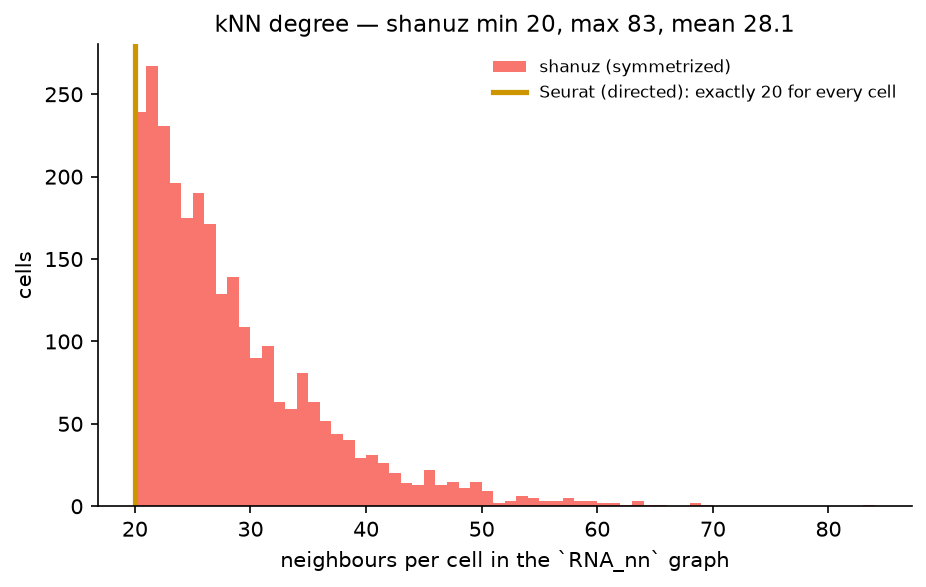
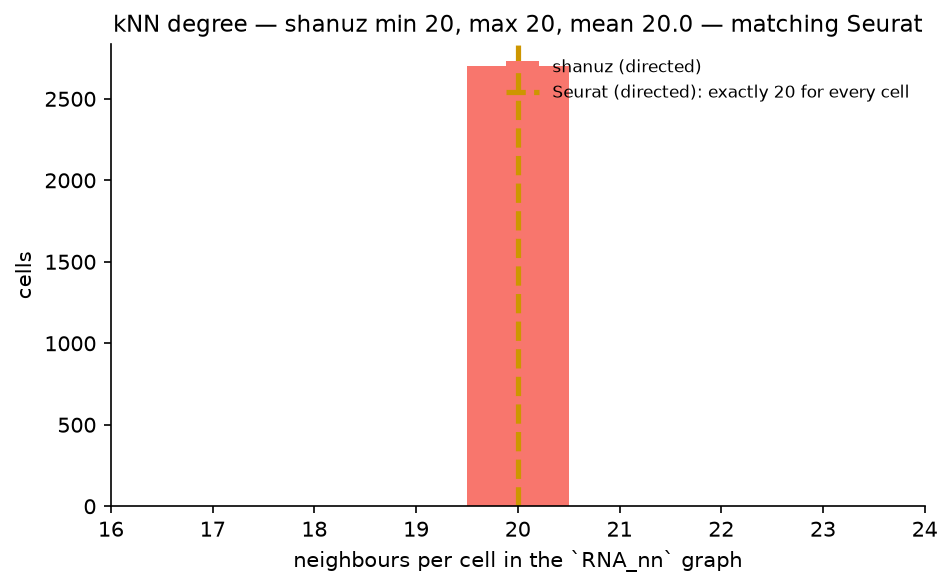
fix(tutorials): compare the object model against exact neighbours
`pbmc3k_objects_verify.R` called `FindNeighbors` with Seurat's default
`nn.method = "annoy"`, which is approximate, while shanuz's neighbour search
is exact. The two sides were therefore building their graphs from different
neighbour tables, and the `graphs` anchors reported a difference that belongs
to annoy rather than to either object model — 182 SNN edges on pbmc3k, 199,434
against the exact 199,616.

Pinning `nn.method = "rann"` makes both sides exact and the tutorial now
matches 91 of 91 anchors, up from 90. Confirmed two ways: Seurat under `rann`
returns 199,616 directly, and feeding Seurat's own `rann` indices into
`_build_snn` reproduces both the edge count and the weight sum.

Also refreshes the docs, which still described two neighbour-graph defects
that PR #55 fixed: the symmetrised kNN graph (now exactly 54,000 entries,
matching Seurat) and the dropped SNN self-edge (now present on all 2,700
cells). The "Two differences left standing" section, the 89/91 headline, the
tutorials index row, the ROADMAP entry and the kNN-degree figure all carried
the pre-#55 state.

The package itself is untouched — this is the comparison apparatus and its
write-up.

diff --git a/tutorials/generate_objects_plots.py b/tutorials/generate_objects_plots.py
@@ -157,7 +157,9 @@ def concordance_by_section(anchors):
 def nn_degree(obj):
     """Neighbours per cell, against the flat k Seurat's directed graph gives.
 
-    The finding this tutorial reports but does not fix.
+    Once the kNN graph is stored directed (PR #55) this is a single bar sitting
+    on Seurat's line — which is the point. Before that fix shanuz symmetrized,
+    and the same plot ran from 20 to 83 with a mean of 28.1.
     """
     import matplotlib.pyplot as plt
 
@@ -167,15 +169,19 @@ def nn_degree(obj):
     degrees = np.diff(graph.tocsr().indptr)
 
     fig, ax = plt.subplots(figsize=(7, 4))
-    ax.hist(degrees, bins=range(int(degrees.min()), int(degrees.max()) + 2),
-            color=_PY_COLOR, label="shanuz (symmetrized)")
-    ax.axvline(20, color=_R_COLOR, lw=2.5,
+    lo, hi = int(degrees.min()), int(degrees.max())
+    # Bins centred on the integers, so a single-valued degree draws as one bar
+    # *at* 20 rather than a block spanning 20-21 that implies a spread.
+    ax.hist(degrees, bins=np.arange(lo - 0.5, hi + 1.5, 1.0),
+            color=_PY_COLOR, label="shanuz (directed)")
+    ax.axvline(20, color=_R_COLOR, lw=2.5, linestyle="--",
                label="Seurat (directed): exactly 20 for every cell")
+    ax.set_xlim(min(lo, 20) - 4, max(hi, 20) + 4)
     ax.set_xlabel("neighbours per cell in the `RNA_nn` graph")
     ax.set_ylabel("cells")
     ax.set_title(
         f"kNN degree — shanuz min {degrees.min()}, max {degrees.max()}, "
-        f"mean {degrees.mean():.1f}", fontsize=11)
+        f"mean {degrees.mean():.1f} — matching Seurat", fontsize=11)
     ax.legend(fontsize=8, frameon=False)
     ax.spines[["top", "right"]].set_visible(False)
     return fig

diff --git a/tests/test_objects_tutorial.py b/tests/test_objects_tutorial.py
@@ -274,3 +274,28 @@ def test_layer_anchor_describes_every_layer():
     assert set(got) == {"counts"}
     assert got["counts"]["shape"] == [4, 6]
     assert got["counts"]["cells"]["n"] == 6
+
+
+def test_r_reference_pins_exact_neighbours():
+    """The R side must not fall back to Seurat's approximate `annoy`.
+
+    `FindNeighbors` defaults to `nn.method = "annoy"`, which is approximate,
+    while this port's neighbour search is exact. With the default, the two sides
+    build their graphs from different neighbour tables and the `graphs` anchors
+    report a difference that belongs to annoy — 182 SNN edges on pbmc3k, 199,434
+    against the exact 199,616 — which reads as a shanuz defect and cost a real
+    investigation once already.
+
+    This asserts the script text rather than running R, which CI has no Seurat
+    for. It therefore proves only that the pin is present, not that Seurat
+    honours it — but "the pin was silently dropped" is the regression that
+    actually happened, and it is the one this catches.
+    """
+    script = (Path(__file__).resolve().parent.parent
+              / "tutorials" / "pbmc3k_objects_verify.R").read_text()
+    calls = [ln for ln in script.splitlines() if "FindNeighbors(" in ln]
+    assert calls, "FindNeighbors call vanished from the R reference"
+    for call in calls:
+        assert 'nn.method = "rann"' in call, (
+            f"R reference uses Seurat's approximate default: {call.strip()!r}"
+        )

diff --git a/tutorials/pbmc3k_objects_tutorial.py b/tutorials/pbmc3k_objects_tutorial.py
@@ -79,12 +79,16 @@ Also: ``orig.ident`` — the first column of every Seurat object's metadata — 
 never created, and ``add_meta_data`` rejected the plain vector that R's
 ``AddMetaData`` documents and every vignette passes it.
 
-Two differences are left standing on purpose. ``FindNeighbors`` builds a
-*symmetrized* kNN graph where Seurat's is directed (nnz 75,740 against exactly
-2,700 × 20 = 54,000), and the SNN drops the self-edge Seurat keeps. Both are
-``find_neighbors``, not the object model, and both change what clustering
-consumes, so they belong to their own comparison rather than to this one. They
-are recorded rather than quietly absorbed.
+Two differences were left standing here on purpose and closed later, in PR #55.
+``FindNeighbors`` built a *symmetrized* kNN graph where Seurat's is directed
+(nnz 75,740 against exactly 2,700 × 20 = 54,000), and the SNN dropped the
+self-edge Seurat keeps. Both belonged to ``find_neighbors`` rather than to the
+object model, so they got their own comparison; both now match exactly.
+
+The R side pins ``nn.method = "rann"``. Seurat defaults to the approximate
+``annoy`` while this port's neighbour search is exact, so the default compared
+two different neighbour tables and charged the difference — 182 SNN edges — to
+the object model.
 
 Conventions
 -----------

diff --git a/tutorials/README.md b/tutorials/README.md
@@ -21,7 +21,7 @@ each pairing **R Seurat** code side-by-side with the equivalent **Python Shanuz*
 | 10 | [Cell-cycle & Module Scoring](cellcycle_vignette.md) | 20,729 cells · THP-1 · GSE153056 (Papalexi 2021) | Gene-program scoring (`AddModuleScore` ↔ `add_module_score`) · cell-cycle phase (`CellCycleScoring` ↔ `cell_cycle_scoring`) · S/G2M scores + discrete phase — **96.6 %** per-cell Phase-concordant with R, scores correlate at Pearson ≥ 0.998 | Advanced |
 | 11 | [Dimensional-Reduction Extras](dimreduc_vignette.md) | 2,700 PBMCs · 10x Genomics (2016) | PC significance (`JackStraw`/`ScoreJackStraw` ↔ `jack_straw`/`score_jackstraw`) · `RunICA` ↔ `run_ica` · `RunTSNE` ↔ `run_tsne` — both tools keep **13 PCs**; ICA matched \|r\| **0.982**; **caught two JackStraw bugs, both fixed** (a too-tight null + the wrong aggregation test) | Advanced |
 | 12 | [Leverage-Score Sketching](sketch_vignette.md) | 13,999 cells · CTRL/STIM · ifnb (Kang 2018) | Scaling to atlas size (`LeverageScore` ↔ `leverage_score` · `SketchData` ↔ `sketch_data` · `ProjectData` ↔ `project_data`) · both of Seurat's regimes · uniform-sampling control · on-disk `LazyMatrix` — exact-regime Spearman **1.000000**; leverage tracks rarity at **−0.929** in both tools; **caught two bugs, both fixed** (full-rank leverage + anchor-based label transfer) | Advanced |
-| 13 | [The Object Model Itself](objects_vignette.md) | 2,700 PBMCs · 10x Genomics (2016) | The **container**, not an algorithm: `Cells`/`Features` · the v5 layered assay (`Layers`/`LayerData`/`split`/`JoinLayers`) · `Key` · `Embeddings`/`Loadings`/`Stdev` · `Graphs` · `FetchData` · `Idents`/`WhichCells`/`RenameIdents`/`subset` · `Command` — **89 of 91 anchors match exactly**, no tolerance; **caught eleven bugs, all fixed** (a split/join round trip that silently misordered columns, `FetchData` returning sparse objects instead of numbers, an inert command log) | Advanced |
+| 13 | [The Object Model Itself](objects_vignette.md) | 2,700 PBMCs · 10x Genomics (2016) | The **container**, not an algorithm: `Cells`/`Features` · the v5 layered assay (`Layers`/`LayerData`/`split`/`JoinLayers`) · `Key` · `Embeddings`/`Loadings`/`Stdev` · `Graphs` · `FetchData` · `Idents`/`WhichCells`/`RenameIdents`/`subset` · `Command` — **91 of 91 anchors match exactly**, no tolerance (the two neighbour-graph anchors closed by PR #55); **caught eleven bugs, all fixed** (a split/join round trip that silently misordered columns, `FetchData` returning sparse objects instead of numbers, an inert command log) | Advanced |
 | 14 | [Spatial Statistics & the Spatial Container](svf_vignette.md) | 36,602 cells · 248 genes · 10x Xenium mouse brain | The spatial **container** and the one spatial **statistic** never checked against R: `LoadXenium` ↔ `load_xenium` · `CreateFOV`/`CreateCentroids`/`CreateSegmentation` ↔ `create_fov`/`create_centroids`/`create_segmentation` · `GetTissueCoordinates` · `Radius` · `FindSpatiallyVariableFeatures` ↔ `find_spatially_variable_features` — **38 of 39 anchors match exactly**; Moran's I to **1.6e-14** and 10/10 of Seurat's top genes, on a slide R cannot hold in memory; **caught three bugs, all fixed** (Moran's I on a kNN graph instead of R's inverse-square weights, centroids with no radius, unclosed polygons) | Advanced |
 | 15 | [The Differential-Expression Test Suite](de_vignette.md) | 2,700 PBMCs · 10x Genomics (2016) | All **eight** `find_markers` tests against `FindMarkers` — `wilcox` · `t` · `bimod` · `LR` · `negbinom` · `roc` · `MAST` · `DESeq2` — on a shared cell assignment so no clustering difference can pose as a DE difference. **All seven per-cell tests reproduce Seurat's top 50 exactly**; `avg_log2FC` to **7.1e-15**; **caught two bugs, both fixed** (Seurat's pseudocount on the group mean instead of the sum, which also changed which genes `logfc_threshold` returned; and a moment-dispersion LRT where Seurat runs an ML-dispersion Wald test) | Advanced |
 | 16 | [Out of Core — `LazyMatrix` vs BPCells](lazy_vignette.md) | 2,700 PBMCs · 10x Genomics (2016) | shanuz's on-disk layer against **BPCells**, Seurat's: `write_lazy_matrix`/`open_lazy_matrix` ↔ `write_matrix_dir`/`open_matrix_dir` · streaming `LogNormalize`/`VST`/`ScaleData` ↔ Seurat's `IterableMatrix` methods · `.CalcN` · storage formats. **14 of 14 anchors match**, 1998/2000 variable features shared with Seurat. The finding is each tool against *itself*: shanuz's on-disk and in-memory paths are **bit-identical**, Seurat's differ by 1.0e-06 and pick a different variable feature. **Caught seven bugs, all fixed** (five functions that densified the whole store — so going on disk *raised* peak memory 4.6× — a constructor that ended laziness before analysis began, and a LOESS whose fit moved 28.8 % under a 1e-15 nudge) | Advanced |

diff --git a/tutorials/objects_vignette.md b/tutorials/objects_vignette.md
@@ -53,7 +53,7 @@ the right shape, full of exactly the right numbers, in the wrong order.
 
 | Anchor | Result |
 |---|---|
-| **Anchors matching Seurat exactly** | **89 / 91** |
+| **Anchors matching Seurat exactly** | **91 / 91** |
 | Cells — count and order (md5 of the barcode vector) | **identical** (`e9278a0983c2`) |
 | Features — count and order | **identical**, 13,714 |
 | Variable features — the shared 2,000-gene basis | **identical** (`fbd5a143114e`) |
@@ -68,7 +68,7 @@ the right shape, full of exactly the right numbers, in the wrong order.
 | **`split` → `JoinLayers` round trip** | **identity** — name, cell order and matrix all restored |
 | Command log | 5 entries, `NormalizeData.RNA` … `FindNeighbors.RNA.pca` — **match** |
 | PCA standard deviations | agree to ~4e-4 relative (randomized SVD vs `irlba`) |
-| kNN / SNN graph edges | **differ** — see [what is left standing](#two-differences-left-standing) |
+| kNN / SNN graph edges | `RNA_nn` **54,000** = 2,700 × 20 and `RNA_snn` **199,616** on both |
 
 ---
 
@@ -409,19 +409,29 @@ lookup table users query, so it is data rather than decoration.
 default identity class — was never created. And `add_meta_data` rejected the
 plain vector that R's `AddMetaData` documents and every vignette passes it.
 
-### Two differences left standing
+### The two graph differences, since closed
 
-`FindNeighbors` builds a **symmetrized** kNN graph where Seurat's is directed.
-Seurat gives every cell exactly `k.param` neighbours — nnz is exactly
-2,700 × 20 = 54,000 — while shanuz's runs from 20 to 83, mean 28.1, for 75,740.
-Separately, its SNN drops the self-edge Seurat keeps, which accounts for about
-2,700 of the 4,044-edge gap (194,924 against 198,968).
+This tutorial originally reported two neighbour-graph differences it declined to
+fix, on the grounds that they belonged to `find_neighbors` rather than the object
+model. Both were investigated and fixed in **PR #55**, and both are now exact:
+
+- `find_neighbors` stored a **symmetrized** kNN graph where Seurat's is directed,
+  so its degree ran from 20 to 83 (mean 28.1, nnz 75,740) against Seurat's flat
+  `k.param`. It now stores the directed graph — degree is exactly 20 for every
+  cell and nnz is exactly 2,700 × 20 = **54,000**, matching Seurat.
+- The SNN dropped the self-edge Seurat keeps. It is now present on all 2,700
+  cells, and `RNA_snn` nnz is **199,616** on both sides.
 
 ![kNN degree distribution](figures_objects/py_03_nn_degree.png)
 
-Both are `find_neighbors`, not the object model, and both change what clustering
-consumes — so they belong to their own comparison rather than riding along with
-an object-model change. They are recorded rather than quietly absorbed.
+One wrinkle is worth keeping, because it made the comparison lie for a while
+after the fix had landed. `FindNeighbors` defaults to `nn.method = "annoy"`,
+which is *approximate*, while shanuz's neighbour search is exact — so the two
+sides were building their graphs from different neighbour tables. That cost 182
+SNN edges (199,434 against 199,616) and read as a shanuz defect. This tutorial's
+R script now pins `nn.method = "rann"` so both sides use exact neighbours, and
+the graphs agree. If you change the neighbour method on one side only, expect
+this anchor to move.
 
 ---
 
@@ -437,16 +447,16 @@ an object-model change. They are recorded rather than quietly absorbed.
 | `reductions` | 5 | 5 |
 | `variable_features` | 4 | 4 |
 | `features` · `cells` · `assay` | 4 each | 4 each |
-| `graphs` | 4 | **2** |
+| `graphs` | 4 | 4 |
 | `meta` | 3 | 3 |
 | `shape` · `join_all_layers` | 2 each | 2 each |
 | `commands` | 1 | 1 |
-| **Total** | **91** | **89** |
+| **Total** | **91** | **91** |
 
-The two shortfalls are the neighbour-graph differences above. Every other
-anchor is an exact match; the only tolerances applied anywhere are on the two
-fields that read a PCA, and they are named explicitly in `FLOAT_TOLERANCES`
-rather than applied across the board.
+Every anchor is an exact match; the only tolerances applied anywhere are on the
+two fields that read a PCA, and they are named explicitly in `FLOAT_TOLERANCES`
+rather than applied across the board. The `graphs` row was 2 of 4 when this
+tutorial was written — see [the two graph differences](#the-two-graph-differences-since-closed).
 
 ---
 

diff --git a/ROADMAP.md b/ROADMAP.md
@@ -1019,11 +1019,13 @@ regime. Don't "simplify" them.
     `orig.ident`; and `add_meta_data` rejected the plain vector R documents.
     **`join_layers`/`split_layers` had zero call sites and zero tests before
     this** — the defining feature of the v5 object model, never once run.
-    **Open, deliberately not fixed here:** `find_neighbors` symmetrizes the kNN
+    **Deferred here, closed in PR #55:** `find_neighbors` symmetrized the kNN
     graph where Seurat's is directed (nnz 75,740 against exactly 2,700 × 20 =
-    54,000; degree 20-83, mean 28.1), and `_build_snn` drops the self-edge Seurat
-    keeps (~2,700 of the 4,044-edge gap). Both change what clustering consumes
-    and need their own comparison.
+    54,000; degree 20-83, mean 28.1), and `_build_snn` dropped the self-edge
+    Seurat keeps (~2,700 of the 4,044-edge gap). Both were fixed with the rest of
+    the graph work, and the tutorial now matches **91 of 91** anchors — once its
+    R script pins `nn.method = "rann"`, because Seurat's default `annoy` is
+    approximate and was costing 182 SNN edges on its own.
   - **T-sp spatial statistics & the spatial container — ✅ delivered. Wave 2's
     last, three more defects.** `load_xenium` / `create_fov` / `create_centroids`
     / `create_segmentation` / `find_spatially_variable_features` on the Xenium

diff --git a/CHANGELOG.md b/CHANGELOG.md
@@ -21,6 +21,23 @@ Work from six milestones — reference mapping, extra reductions, pseudobulk DE,
 spatial, scale, and the specialized assays — plus one breaking fix. All of it is
 on `main`; none of it is on PyPI.
 
+### Changed
+
+- **The object-model tutorial's R reference now uses exact neighbours.**
+  `pbmc3k_objects_verify.R` called `FindNeighbors` with Seurat's default
+  `nn.method = "annoy"`, which is approximate, while shanuz's neighbour search
+  is exact — so the graph anchors compared two different neighbour tables and
+  reported a difference belonging to annoy rather than to either object model.
+  It cost 182 SNN edges (199,434 against 199,616). Pinning `nn.method = "rann"`
+  makes both sides exact, and the tutorial now matches **91 of 91** anchors,
+  up from 90. Confirmed two ways: Seurat under `rann` returns 199,616 directly,
+  and feeding Seurat's own `rann` indices into `_build_snn` reproduces both the
+  count and the weight sum.
+- `objects_vignette.md`, `tutorials/README.md`, `ROADMAP.md` and the tutorial's
+  own docstring described the symmetrised kNN graph and the dropped SNN
+  self-edge as open. Both were fixed below; the text and the kNN-degree figure
+  now record them as closed.
+
 ### Fixed
 
 *The neighbour graphs, against `FindNeighbors` / `FindClusters` (Seurat 5.5.1).
